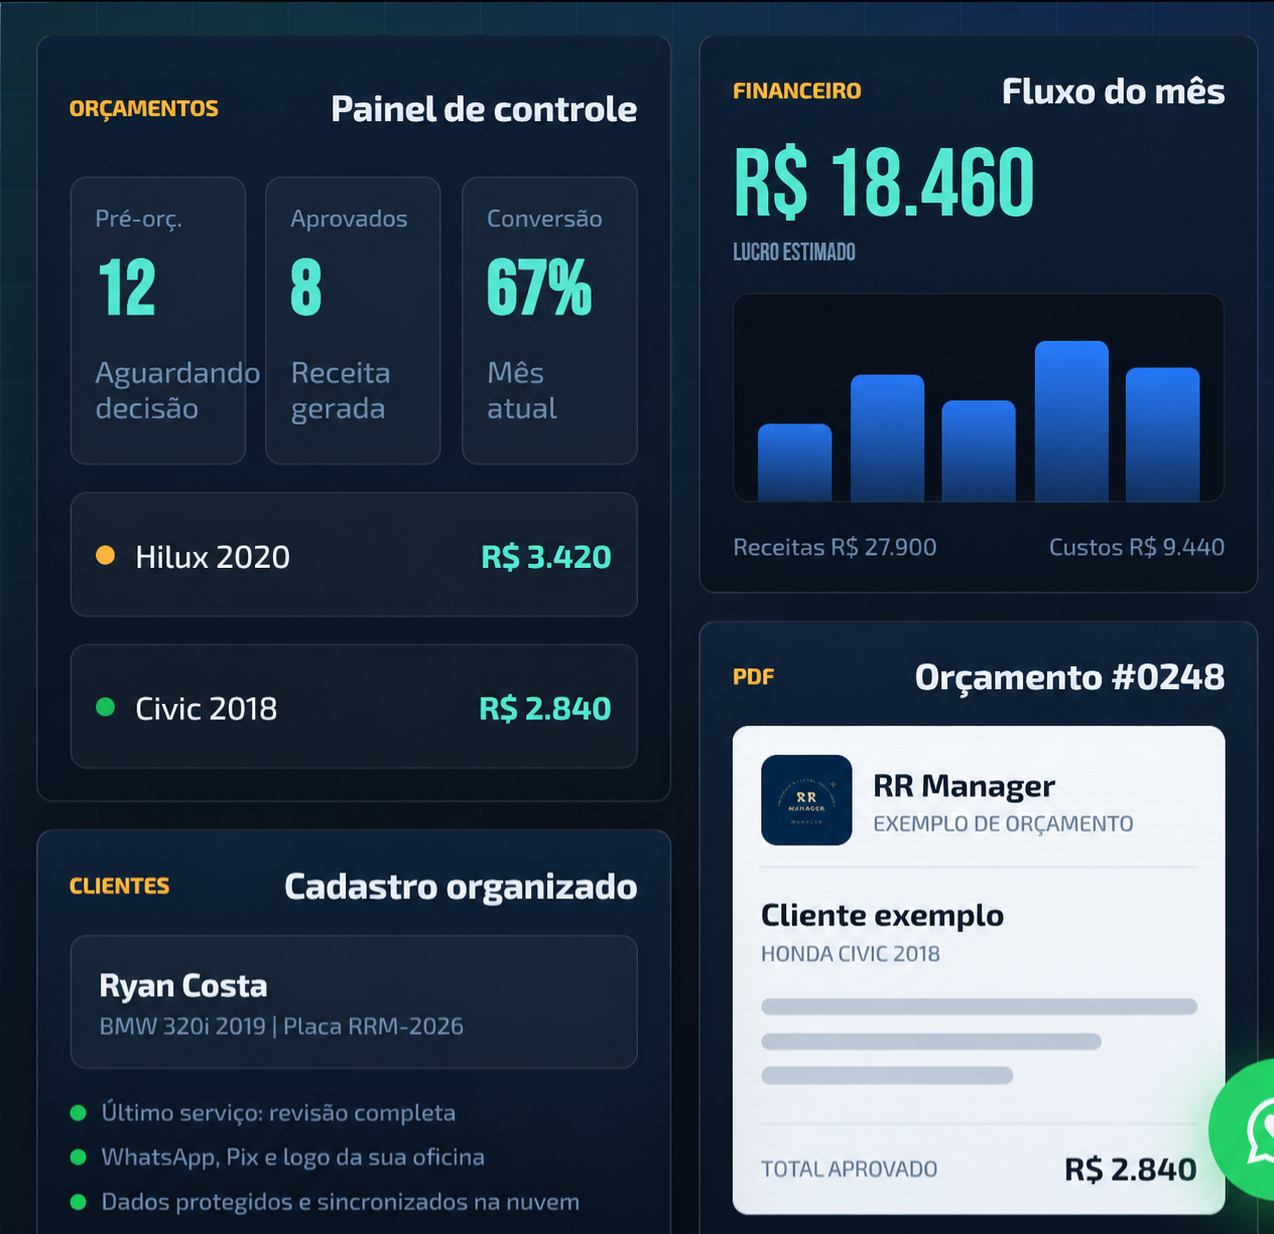
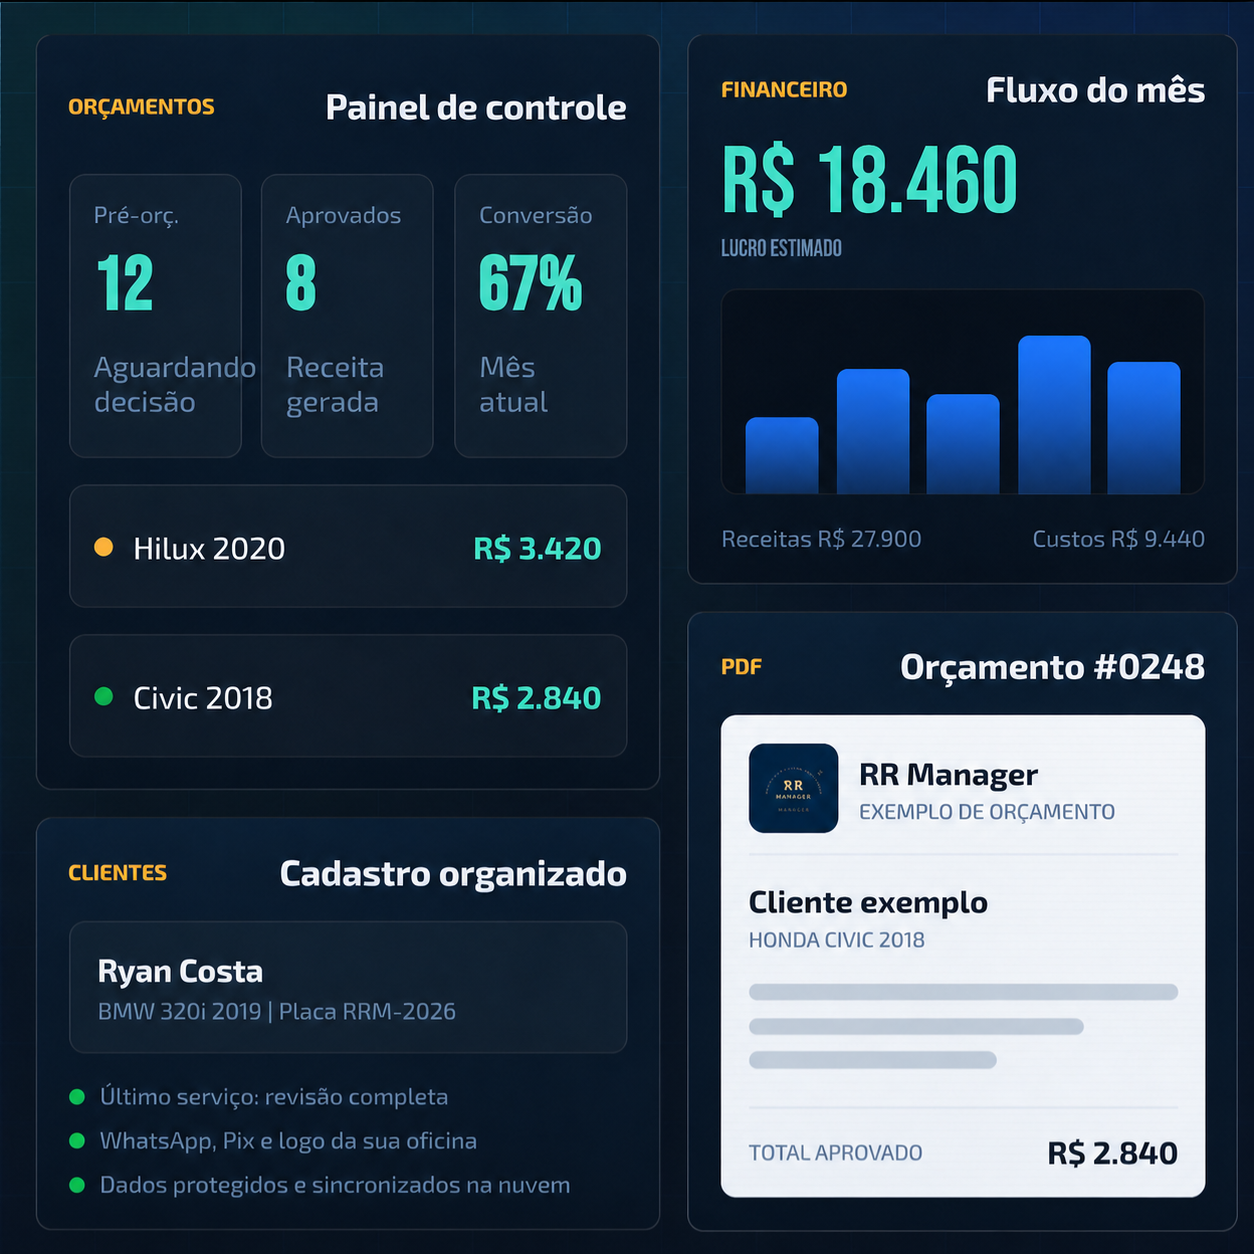
Melhora apresentacao das solucoes

diff --git a/index.html b/index.html
@@ -107,94 +107,42 @@
       </section>
       <section class="products" id="produtos">
         <article class="product-card obd-card reveal">
-          <div class="product-top product-top-obd">
-            <span>01 · Interface de diagnóstico</span>
-          </div>
-          <div class="obd-showcase">
+          <div class="product-top product-top-obd"><span>01 · Interface de diagnóstico</span></div>
+          <div class="product-visual obd-showcase">
             <img src="produto-rr-obd-pro.png" alt="Scanner RR OBD PRO">
+            <small>Hardware nacional</small>
           </div>
           <h2>RR OBD PRO®</h2>
           <p>Diagnóstico profissional direto no celular. Sem app, sem internet e sem fios.</p>
           <ul>
-            <li>OBD-II e CAN Bus</li>
-            <li>Dados e gráficos em tempo real</li>
-            <li>Dashboard web próprio</li>
-            <li>Produto nacional e suporte técnico</li>
+            <li>OBD-II e CAN Bus</li><li>Dados e gráficos em tempo real</li>
+            <li>Dashboard web próprio</li><li>Produto nacional e suporte técnico</li>
           </ul>
           <div class="product-offer">
-            <small>Preço de lançamento</small>
-            <strong>R$ 579,90</strong>
+            <small>Preço de lançamento</small><strong>R$ 579,90</strong>
             <span>12x de R$ 48,32 · frete grátis</span>
           </div>
           <a class="btn btn-green" href="https://rrautomotive.com.br/" target="_blank" rel="noopener">Conhecer o RR OBD PRO ↗</a>
         </article>
         <article class="product-card manager-card reveal">
-          <div class="product-top">
-            <img src="logo-rr-manager.png" alt="RR Manager">
-            <span>02 · Software de gestão</span>
+          <div class="product-top"><span>02 · Software de gestão</span></div>
+          <div class="product-visual manager-visual">
+            <img src="rr-manager-dashboard.png" alt="Painel de gestão do RR Manager">
+            <small>Gestão completa da oficina</small>
           </div>
           <h2>RR Manager®</h2>
           <p>Orçamentos profissionais, clientes, veículos e financeiro em um só lugar.</p>
           <ul>
-            <li>Orçamentos enviados pelo WhatsApp</li>
-            <li>Margem e lucro automáticos</li>
-            <li>Marca, Pix e dados da sua oficina</li>
-            <li>Acesso pelo celular e computador</li>
+            <li>Orçamentos enviados pelo WhatsApp</li><li>Margem e lucro automáticos</li>
+            <li>Marca, Pix e dados da sua oficina</li><li>Acesso pelo celular e computador</li>
           </ul>
-          <div class="manager-dashboard">
-            <div class="dash-panel dash-orcamentos">
-              <header>
-                <span>Orçamentos</span>
-                <strong>Painel de controle</strong>
-              </header>
-              <div class="dash-kpis">
-                <div>
-                  <small>Pré-orç.</small>
-                  <b>12</b>
-                  <em>Aguardando</em>
-                </div>
-                <div>
-                  <small>Aprovados</small>
-                  <b>8</b>
-                  <em>Receita</em>
-                </div>
-                <div>
-                  <small>Conversão</small>
-                  <b>67%</b>
-                  <em>Mês atual</em>
-                </div>
-              </div>
-            </div>
-            <div class="dash-panel dash-financeiro">
-              <header>
-                <span>Financeiro</span>
-                <strong>Resultado do mês</strong>
-              </header>
-              <div class="dash-total">R$ 18.460<small>lucro estimado</small>
-            </div>
-            <div class="dash-bars">
-              <i>
-              </i>
-              <i>
-              </i>
-              <i>
-              </i>
-              <i>
-              </i>
-              <i>
-              </i>
-            </div>
+          <div class="product-offer manager-offer">
+            <small>Plano mensal · sem fidelidade</small><strong>R$ 39,90<em>/mês</em></strong>
+            <span>Acesso individual · suporte incluso</span>
           </div>
-        </div>
-        <div class="product-offer manager-offer">
-          <small>Plano mensal · sem fidelidade</small>
-          <strong>R$ 39,90<em>/mês</em>
-        </strong>
-        <span>acesso individual · suporte incluso</span>
-      </div>
-      <a class="btn btn-blue" href="https://rrreparacaomanager.com.br/" target="_blank" rel="noopener">Conhecer o RR Manager ↗</a>
-    </article>
-  </section>
+          <a class="btn btn-blue" href="https://rrreparacaomanager.com.br/" target="_blank" rel="noopener">Conhecer o RR Manager ↗</a>
+        </article>
+      </section>
   <section class="section ecosystem" id="ecossistema">
     <div class="section-copy reveal">
       <div class="tech-line">Ecossistema RR</div>

diff --git a/style.css b/style.css
@@ -1703,3 +1703,51 @@ transparent 28rem),
     transform:translateX(-50%);
   }
 }
+/* Destaque refinado do RR OBD Pro. */
+.hero-obd {
+  background:
+    radial-gradient(circle at 50% 30%, rgba(0,200,255,.14), transparent 34%),
+    linear-gradient(180deg, rgba(17,31,51,.92), rgba(8,17,32,.9));
+}
+.hero-obd img {
+  top:-28px;
+  width:min(680px, 138%);
+  filter:drop-shadow(0 32px 58px rgba(0,200,255,.34));
+}
+
+@media(min-width:681px) and (max-width:1040px) {
+  .hero-obd img {
+    top:-18px;
+    width:min(510px, 128%);
+  }
+}
+
+@media(max-width:680px) {
+  .hero-obd img {
+    top:-12px;
+    width:min(410px, 116%);
+  }
+}
+/* Secao de solucoes: cards simetricos e leitura mais objetiva. */
+.products { align-items:stretch; gap:clamp(18px,2vw,28px); padding-top:clamp(34px,5vw,62px); }
+.product-card { min-height:0; padding:clamp(24px,3vw,38px); border-radius:14px; }
+.product-card::before { content:""; position:absolute; inset:0; z-index:0; background:linear-gradient(135deg,rgba(0,200,255,.035),transparent 42%); pointer-events:none; }
+.product-top { min-height:28px; margin-bottom:18px; }
+.product-top span { font-size:.72rem; }
+.product-visual { position:relative; height:clamp(220px,25vw,310px); margin:0 0 26px; overflow:hidden; border:1px solid rgba(47,124,246,.24); border-radius:10px; background:linear-gradient(180deg,rgba(12,37,60,.9),rgba(5,18,32,.94)); }
+.product-visual::after { content:""; position:absolute; inset:auto 0 0; height:42%; background:linear-gradient(transparent,rgba(4,14,27,.8)); pointer-events:none; }
+.product-visual > small { position:absolute; left:16px; bottom:13px; z-index:3; color:var(--cyan); font:10px "Share Tech Mono"; letter-spacing:1.8px; text-transform:uppercase; }
+.obd-showcase { margin:0 0 26px; background:radial-gradient(circle at 50% 44%,rgba(0,200,255,.18),transparent 38%),linear-gradient(180deg,#0c263d,#061322); }
+.obd-showcase img { width:min(510px,92%); left:50%; top:48%; transform:translate(-50%,-50%); filter:drop-shadow(0 26px 42px rgba(0,200,255,.34)); }
+.manager-visual img { width:100%; height:100%; object-fit:cover; object-position:center 10%; transform:scale(1.015); }
+.product-card h2 { margin-bottom:10px; font-size:clamp(3.2rem,4.7vw,5.4rem); }
+.product-card p { min-height:3.1em; margin:0; }
+.product-card ul { flex:1; align-content:start; margin:20px 0 26px; }
+.product-offer { min-height:100px; margin-top:auto; margin-bottom:18px; border-radius:0 8px 8px 0; }
+.product-card > .btn { width:100%; justify-content:center; }
+@media(max-width:680px) {
+  .product-visual { height:220px; margin-bottom:22px; }
+  .obd-showcase img { width:min(390px,104%); }
+  .product-card h2 { font-size:3.15rem; }
+  .product-card p { min-height:0; }
+}
